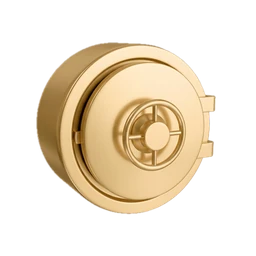
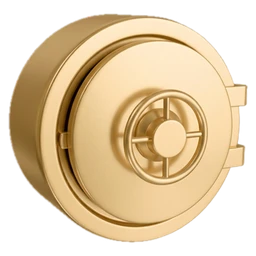
Card safe: Fonbet image cropped like the Pari mockup images, same size inside the same container

diff --git a/index.html b/index.html
@@ -17,14 +17,14 @@
     /* market tokens: same gradients in both brands, only these values change */
     --claim-glow-0: rgba(235,188,94,.26); --claim-glow-100: rgba(235,188,94,0); --claim-safe-glow: rgba(235,188,94,.57);
     --story-glow-0: rgba(235,188,94,.28); --story-glow-100: rgba(235,188,94,0); --story-orb: rgba(235,188,94,.34);
-    --ic-open: 112.5%; --ic-closed: 112.5%; --ic-closed-s64: 140.6%;
+    /* safe image inside the fixed 80 / 64 px container, as the Pari mockups */
+    --ic-open: 100%; --ic-closed: 90%; --ic-closed-s64: 111%;
   }
   body[data-brand="pari"] {
     --btn: #00C7B1; --btn-ink: #171717; --accent-text: #1FAD9E;
     --ray: 255,255,255; --dust: 236,250,250;
     --claim-glow-0: rgba(255,255,255,.24); --claim-glow-100: rgba(255,255,255,0); --claim-safe-glow: rgba(255,255,255,.2);
     --story-glow-0: rgba(255,255,255,.14); --story-glow-100: rgba(255,255,255,0); --story-orb: rgba(255,255,255,.16);
-    --ic-open: 100%; --ic-closed: 90%; --ic-closed-s64: 111%;
   }
   * { box-sizing: border-box; }
   html, body { margin: 0; }
@@ -316,7 +316,7 @@ function cardHTML(res, s) {
   const k = s.kind || 'one';
   if (s.card === 'empty') {
     return `<div class="card ${res}"><div class="row"><div class="ic closed${res === 'm' ? ' s64' : ''}"><img src="${img('card-closed')}" alt=""></div>
-      <div><div class="e-ttl">Нет доступного кешбэка</div><div class="e-txt">Как только он${NB}будет рассчитан${NB}– вы${NB}сможете его${NB}забрать</div></div></div></div>`;
+      <div><div class="e-ttl">Нет доступного кешбэка</div><div class="e-txt">Как только он будет рассчитан${NB}–<br>вы сможете его${NB}забрать</div></div></div></div>`;
   }
   const btn = `<button class="btn${s.card === 'loading' ? ' busy' : ''}" type="button" data-act="claim">Забрать<span class="dots" aria-hidden="true"><i></i><i></i><i></i></span></button>`;
   return `<div class="card ${res}"><div class="row"><div class="ic"><img src="${img('card-open')}" alt=""></div>
